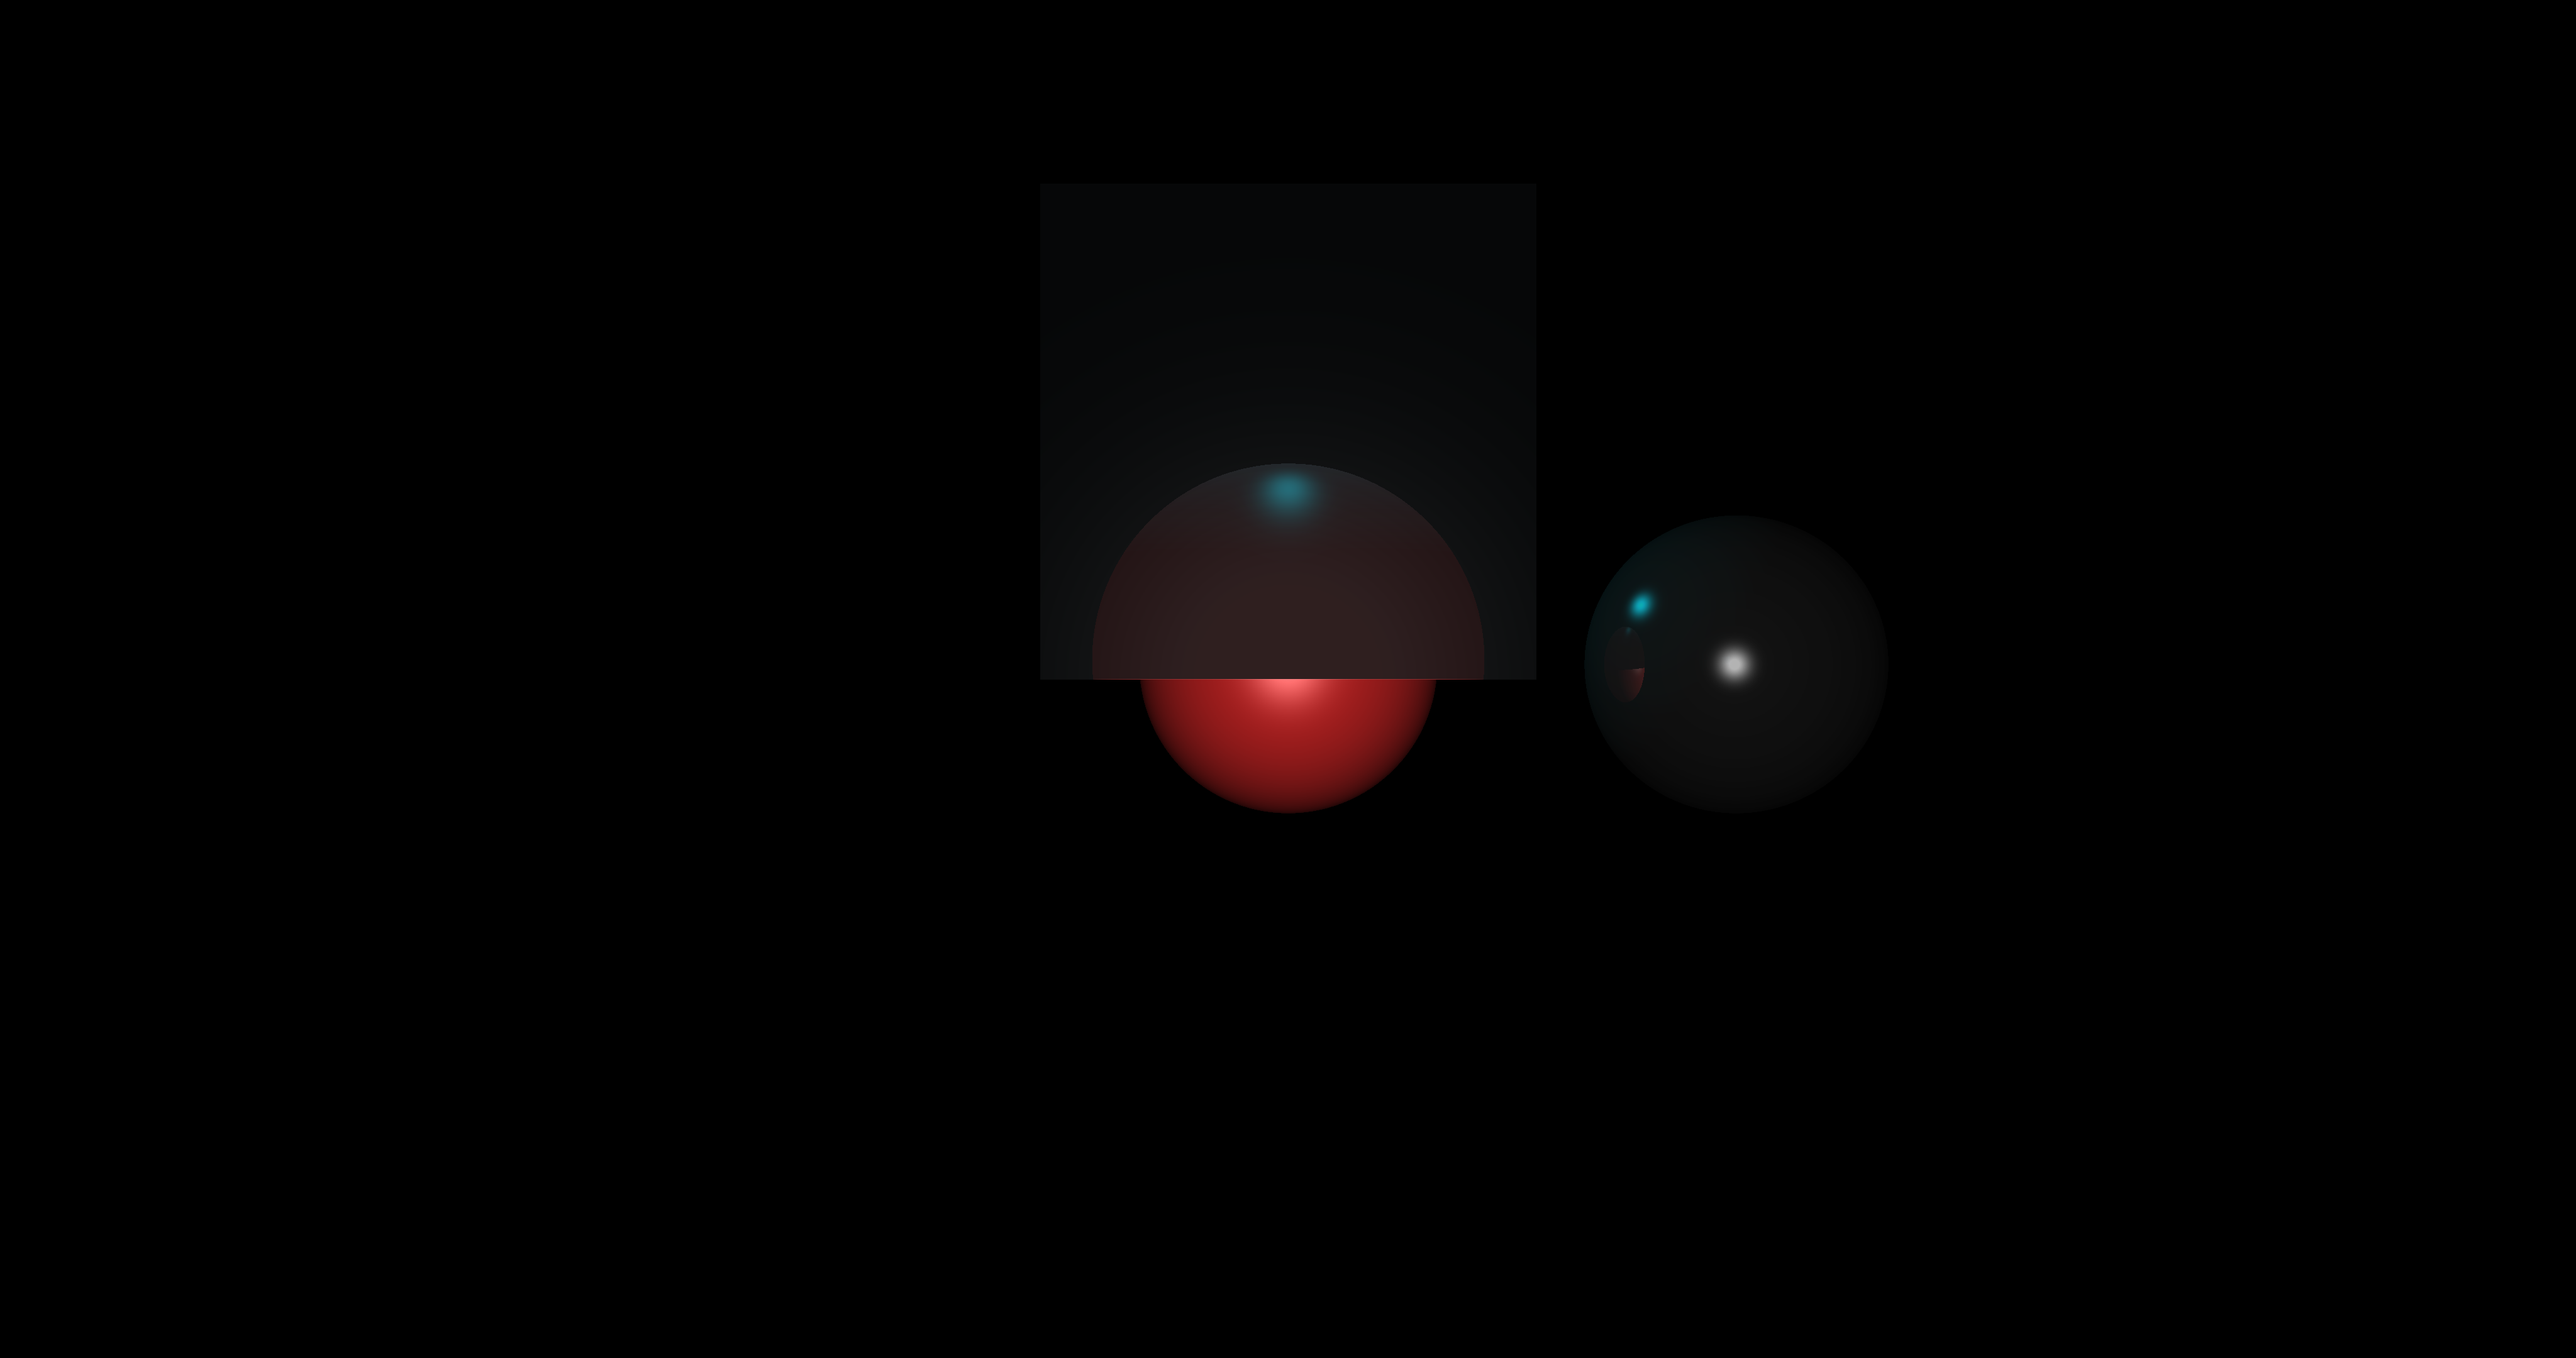
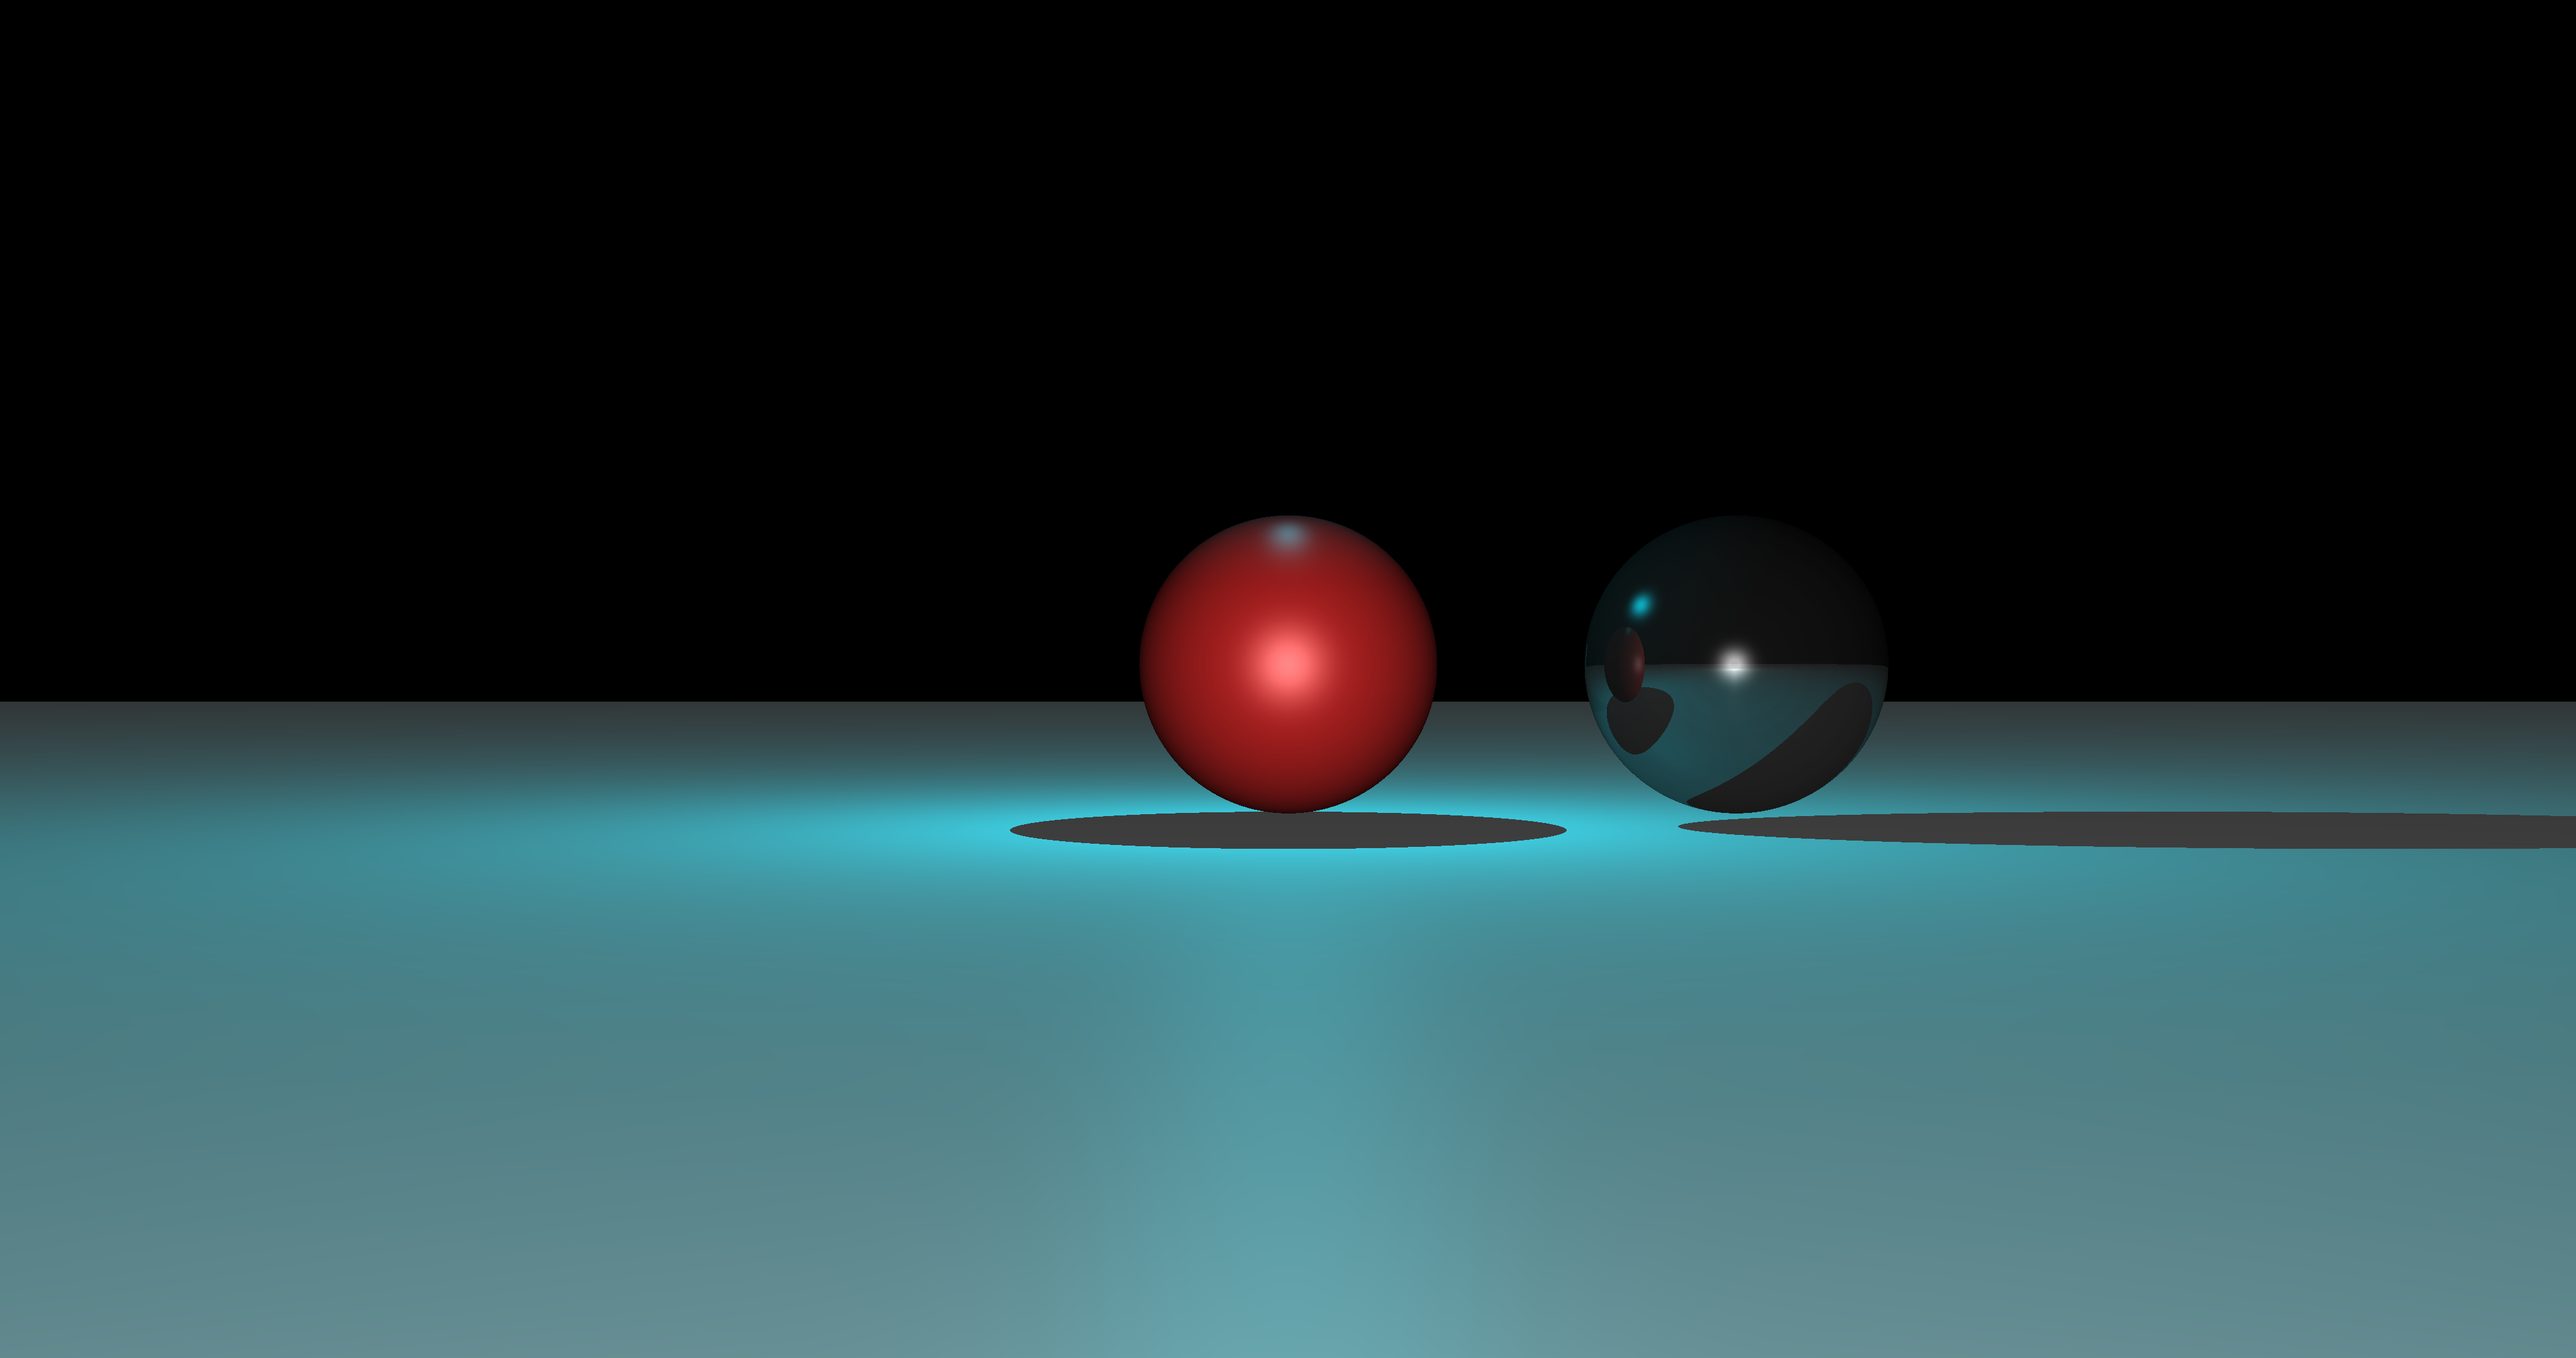
Update in scene

diff --git a/src/edu/up/isgc/cg/raytracer/Raytracer.java b/src/edu/up/isgc/cg/raytracer/Raytracer.java
@@ -91,8 +91,8 @@ public class Raytracer {
         // 3D Objects
         Model3D teapot = OBJReader.getModel3D(
                 "cube.obj",
-                new Vector3D(0, 0, 5),
-                glassMaterial
+                new Vector3D(0, 0, 30),
+                redPlasticMaterial
         );
 
         Sphere sphere = new Sphere(
@@ -105,11 +105,19 @@ public class Raytracer {
                 1, silverMetallicMaterial
         );
 
+        Plane plane = new Plane(
+                new Vector3D(0, -1, 0), // Any point on plane
+                new Vector3D(0, 1, 0),  // Upward normal
+                floorMaterial
+        );
+
         // Scene setup
         scene_1.setCamera(camera);
 
         scene_1.addLight(mainLight);
         scene_1.addLight(pointLight);
+
+        scene_1.addObject(plane);
 
         scene_1.addObject(teapot);
         scene_1.addObject(sphere);
